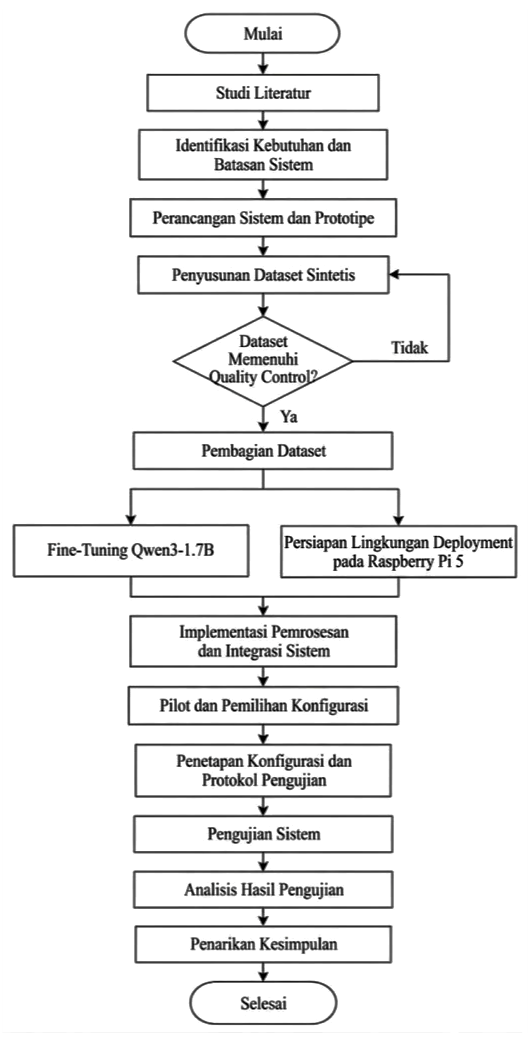
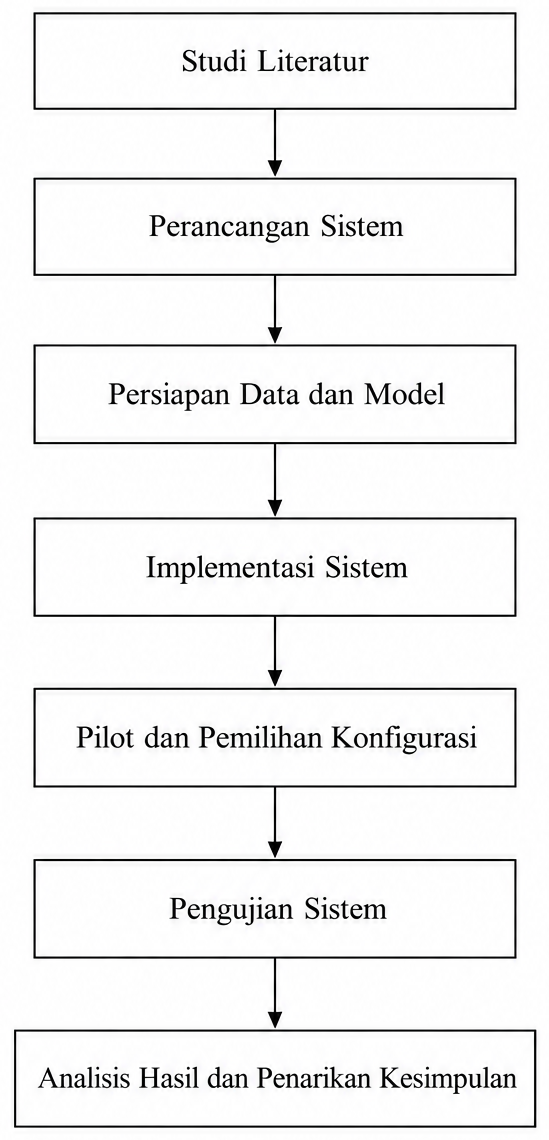
fix: sesuaikan template dengan Pedoman Tugas Akhir ITS (SK Rektor No. 280/2022)
- Sesuaikan sampul proposal Sempro menggunakan format kertas putih dan pita biru 10 mm (Lampiran 1)
- Tambahkan kelengkapan Departemen pada sampul dan lembar pengesahan
- Format judul Bab menjadi dua baris (display): nomor bab Romawi di atas dan judul bab di bawah (Subbab 3.2.i)
- Perbaiki penomoran Romawi bagian awal dimulai dari lembar pengesahan (halaman ii)
- Tetapkan nama universitas Institut Teknologi Sepuluh Nopember pada versi bahasa Inggris
- Tambahkan variabel degree dan engdegree di pustaka/variables.tex
- Perbaiki beberapa typo pada file lembar pernyataan keaslian dan biodata penulis
- Perbarui dokumentasi README.md

diff --git a/main.tex b/main.tex
@@ -78,9 +78,9 @@
   \or December% 12
   \fi}
 
-% Pengaturan format judul bab
+% Pengaturan format judul bab (Sesuai Pedoman ITS Bab 3.2.i: Nomor bab dan Judul bab terpisah baris)
 \usepackage{titlesec}
-\titleformat{\chapter}[block]{\bfseries\Large\centering}{BAB \Roman{chapter}\ }{0ex}{}
+\titleformat{\chapter}[display]{\bfseries\Large\centering}{BAB \Roman{chapter}}{0.5ex}{}
 \titleformat{\section}{\bfseries\large}{\MakeUppercase{\thesection}}{1ex}{\vspace{1ex}}
 \titleformat{\subsection}{\bfseries\large}{\MakeUppercase{\thesubsection}}{1ex}{}
 \titleformat{\subsubsection}{\bfseries\large}{\MakeUppercase{\thesubsubsection}}{1ex}{}
@@ -121,23 +121,26 @@
 % Isi keseluruhan dokumen
 \begin{document}
 
-% Sampul luar Bahasa Indonesia
+% =========================================================================
+% HALAMAN SAMPUL PROPOSAL (Sesuai SK Rektor ITS No. 280/2022 Lampiran 1)
+% Untuk Proposal Tugas Akhir (Sempro), sampul menggunakan kertas putih dengan
+% pita biru horizontal 10 mm (sampul-luar-tipis.tex).
+%
+% (Catatan: Jika dokumen ini digunakan untuk Buku Laporan Tugas Akhir Final,
+% silakan ganti menjadi sampul-luar.tex berwarna biru penuh sesuai Lampiran 6).
+% =========================================================================
 \newcommand\covercontents{sampul/konten-id.tex}
-\input{sampul/sampul-luar.tex}
-\clearpage
-
-% Atur ulang penomoran halaman
-\setcounter{page}{1}
-
-% Sampul dalam Bahasa Indonesia (putih)
-\renewcommand\covercontents{sampul/konten-id.tex}
 \input{sampul/sampul-luar-tipis.tex}
 \clearpage
 
-% Sampul dalam Bahasa Inggris (putih)
-\renewcommand\covercontents{sampul/konten-en.tex}
-\input{sampul/sampul-luar-tipis.tex}
-\clearpage
+% =========================================================================
+% PENOMORAN HALAMAN BAGIAN AWAL (Sesuai Pedoman ITS Subbab 2.1 & 3.2.f)
+% Diberi nomor halaman angka Romawi kecil (i, ii, iii, dst.) di kanan bawah.
+% Halaman sampul dihitung sebagai halaman i (tidak dicetak), sehingga
+% Lembar Pengesahan dimulai dari halaman ii.
+% =========================================================================
+\pagenumbering{roman}
+\setcounter{page}{2}
 
 % Label tabel dan gambar dalam bahasa indonesia
 \renewcommand{\figurename}{Gambar}
@@ -165,14 +168,13 @@
 % Pengaturan ukuran spasi paragraf
 \setlength{\parskip}{1ex}
 
-% Lembar pengesahan
+% Lembar pengesahan Bahasa Indonesia (Lampiran 2)
 \input{lainnya/lembar-pengesahan.tex}
 \clearpage
+
+% Lembar pengesahan Bahasa Inggris (Approval Sheet - Lampiran 2)
 \input{lainnya/lembar-pengesahan-en.tex}
 \clearpage
-
-% Nomor halaman pembuka dimulai dari sini
-\pagenumbering{roman}
 
 % Abstrak Bahasa Indonesia
 \input{abstrak/abstrak-id.tex}

diff --git a/lainnya/pernyataan-keaslian.tex b/lainnya/pernyataan-keaslian.tex
@@ -20,14 +20,14 @@
                          &   &                            \\
 \end{tabularx}
 
-Dengan ini menyatakan bahwa Tugas Akhir dengan judul "\tatitle{}" adalah hasil karya sendiri, berfsifat orisinal, dan ditulis dengan mengikuti kaidah penulisan ilmiah.
+Dengan ini menyatakan bahwa Tugas Akhir dengan judul "\tatitle{}" adalah hasil karya sendiri, bersifat orisinal, dan ditulis dengan mengikuti kaidah penulisan ilmiah.
 
 Bilamana di kemudian hari ditemukan ketidaksesuaian dengan pernyataan ini, maka saya bersedia menerima sanksi sesuai dengan ketentuan yang berlaku di Institut Teknologi Sepuluh Nopember.
 
 \vspace{8ex}
 
 \noindent\begin{tabularx}{\textwidth}{X l}
-                     & \place{}, \ENGMONTH{} \the\year{} \\
+                     & \place{}, \MONTH{} \the\year{} \\
                      &                                   \\
   Mengetahui         &                                   \\
   Dosen Pembimbing   & Mahasiswa                         \\

diff --git a/pustaka/variables.tex b/pustaka/variables.tex
@@ -62,7 +62,13 @@
 \newcommand{\engfacultyshort}{FMH}
 
 % -------------------------------------------------------------------------
-% 7. KODE MATA KULIAH PROPOSAL / TUGAS AKHIR TEKNOLOGI KEDOKTERAN
+% 7. GELAR AKADEMIK (Sarjana Teknik / Bachelor of Engineering)
+% -------------------------------------------------------------------------
+\newcommand{\degree}{Sarjana Teknik}
+\newcommand{\engdegree}{Bachelor of Engineering}
+
+% -------------------------------------------------------------------------
+% 8. KODE MATA KULIAH PROPOSAL / TUGAS AKHIR TEKNOLOGI KEDOKTERAN
 % -------------------------------------------------------------------------
 % Kode Proposal Tugas Akhir: KT234801
 \newcommand{\coursecode}{KT234801}

diff --git a/lainnya/lembar-pengesahan-en.tex b/lainnya/lembar-pengesahan-en.tex
@@ -3,9 +3,6 @@
   \textbf{APPROVAL SHEET}
 \end{center}
 
-% Menyembunyikan nomor halaman
-\thispagestyle{empty}
-
 \begin{center}
   \textbf{\engtatitle{}}
 \end{center}
@@ -17,10 +14,11 @@
 \begin{center}
   \textbf{FINAL PROJECT PROPOSAL}
   \\Submitted to fulfill one of the requirements \\
-  for obtaining a degree Bachelor of Engineering at \\
+  for obtaining a degree \engdegree{} at \\
   Undergraduate Study Program of \engstudyprogram{} \\
+  Department of \engdepartment{} \\
   Faculty of \engfaculty{} \\
-  Sepuluh Nopember Institute of Technology
+  Institut Teknologi Sepuluh Nopember
 \end{center}
 
 \begin{center}

diff --git a/lainnya/pernyataan-keaslian-en.tex b/lainnya/pernyataan-keaslian-en.tex
@@ -22,7 +22,7 @@
 
 Hereby declared that the Final Project with the title of "\engtatitle{}" is the result of my own work, is original, and is written by following the rules of scientific writing.
 
-If in future there is a discrepancy with this statement, then I am willing to accept sanctions in accordance with provisions that apply at Sepuluh Nopember Institute of Technology.
+If in future there is a discrepancy with this statement, then I am willing to accept sanctions in accordance with provisions that apply at Institut Teknologi Sepuluh Nopember.
 
 \vspace{8ex}
 

diff --git a/lainnya/lembar-pengesahan.tex b/lainnya/lembar-pengesahan.tex
@@ -3,9 +3,6 @@
   \textbf{LEMBAR PENGESAHAN}
 \end{center}
 
-% Menyembunyikan nomor halaman
-\thispagestyle{empty}
-
 \begin{center}
   \textbf{\tatitle{}}
 \end{center}
@@ -17,8 +14,9 @@
 \begin{center}
   \textbf{PROPOSAL TUGAS AKHIR}
   \\Diajukan untuk memenuhi salah satu syarat \\
-  memperoleh gelar Sarjana Teknik pada \\
+  memperoleh gelar \degree{} pada \\
   Program Studi S-1 \studyprogram{} \\
+  Departemen \department{} \\
   Fakultas \faculty{} \\
   Institut Teknologi Sepuluh Nopember
 \end{center}

diff --git a/sampul/konten-en.tex b/sampul/konten-en.tex
@@ -32,10 +32,11 @@
 \vspace{\fill}
 
 Study Program of \engstudyprogram{} \\
+Department of \engdepartment{} \\
 
 \mdseries
 
 Faculty of \engfaculty{} \\
-Sepuluh Nopember Institute of Technology
+Institut Teknologi Sepuluh Nopember \\
 
 \place{} \\ \the\year{}

diff --git a/sampul/konten-id.tex b/sampul/konten-id.tex
@@ -32,10 +32,11 @@
 \vspace{\fill}
 
 Program Studi \studyprogram{} \\
+Departemen \department{} \\
 
 \mdseries
 
 Fakultas \faculty{} \\
-Institut Teknologi Sepuluh Nopember
+\MakeUppercase{Institut Teknologi Sepuluh Nopember} \\
 
 \place{} \\ \the\year{}

diff --git a/lainnya/biografi-penulis.tex b/lainnya/biografi-penulis.tex
@@ -1,9 +1,9 @@
 \begin{center}
   \Large
-  \textbf{BIOGRAFI PENULIS}
+  \textbf{BIODATA PENULIS}
 \end{center}
 
-\addcontentsline{toc}{chapter}{BIOGRAFI PENULIS}
+\addcontentsline{toc}{chapter}{BIODATA PENULIS}
 
 \vspace{2ex}
 

diff --git a/README.md b/README.md
@@ -13,20 +13,26 @@ Template ini mencakup struktur inti Sempro: **Bab I (Pendahuluan)**, **Bab II (T
 
 ---
 
-## ✨ Fitur Khusus Template Ini
+## ✨ Kepatuhan Terhadap Pedoman Resmi ITS (SK Rektor No. 280/2022)
 
-1. **Preset Khusus Teknologi Kedokteran ITS**:
+1. **Preset Lengkap Departemen & Program Studi**:
    - Program Studi: `Teknologi Kedokteran`
+   - Departemen: `Teknologi Kedokteran`
    - Fakultas: `Kedokteran dan Kesehatan` (`FKK`)
    - Kode Mata Kuliah: `KT234801` (Proposal Tugas Akhir)
-2. **Format Judul Bab Satu Baris**:
-   - Judul bab dicetak tebal, simetris di tengah (*centered*), dan satu baris (contoh: **BAB III METODOLOGI**).
-3. **Format Caption Gambar Sesuai Standar ITS**:
-   - Nomor gambar dicetak tebal dengan pemisah titik tanpa titik dua (contoh: **Gambar 3.1.** Diagram Alir Penelitian).
-   - Jarak spasi (*vertical skip*) antara gambar dan keterangan caption telah dioptimasi rapat dan proporsional.
-4. **Manajemen Sitasi & Bibliografi Modern**:
-   - Menggunakan `biblatex` dengan backend `biber` dan format standar APA.
-5. **Dukungan Lingkungan Kerja Lengkap**:
+2. **Sampul Resmi Proposal Sempro (Lampiran 1)**:
+   - Menggunakan format dasar kertas putih dengan pita biru horizontal khas ITS 10 mm (`sampul-luar-tipis.tex`).
+   - Menyediakan opsi peralihan mudah jika ingin digunakan untuk *Buku Tugas Akhir Final Hardcover* (`sampul-luar.tex` / Lampiran 6).
+3. **Format Judul Bab Terstandar (Subbab 3.2.i)**:
+   - Judul bab dicetak tebal, simetris di tengah (*centered*), dengan nomor bab angka Romawi di baris pertama dan judul bab di baris berikutnya (dua baris terpisah sesuai pedoman).
+4. **Penomoran Halaman Presisi (Subbab 2.1 & 3.2.f)**:
+   - Nomor halaman Romawi kecil (`ii, iii, ...`) di kanan bawah dimulai dari Lembar Pengesahan (halaman sampul terhitung halaman `i` tanpa dicetak).
+   - Penomoran angka Arab (`1, 2, ...`) di kanan bawah dimulai dari Bab I Pendahuluan.
+5. **Format Caption Gambar & Tabel**:
+   - Penomoran dua bagian (**Gambar 3.1.** / **Tabel 3.1.**) dengan judul tabel di atas dan judul gambar di bawah.
+6. **Manajemen Sitasi & Bibliografi Standar APA Edisi ke-7**:
+   - Menggunakan `biblatex` dengan backend `biber` dan format resmi APA 7th edition (`style=apa`).
+7. **Dukungan Lingkungan Kerja Lengkap**:
    - Siap pakai di **Visual Studio Code** dengan ekstensi *LaTeX Workshop* (konfigurasi `.vscode/settings.json` sudah disediakan).
    - Mendukung kompilasi otomatis melalui **GitHub Actions** CI/CD (`.github/workflows/ci.yaml`).
    - Dapat diimpor langsung ke **Overleaf**.
